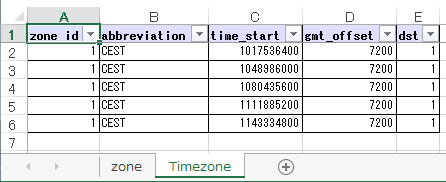
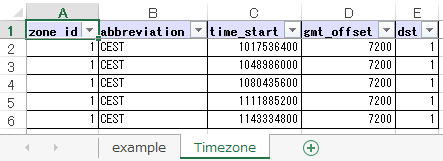
[ci skip] Update docs

Changed region(s): [[0.0, 0.0, 1.0, 1.0], [0.1174, 0.9006, 0.1467, 0.9317], [0.0587, 0.9006, 0.088, 0.9317]]

diff --git a/docs/pages/examples/excel.rst b/docs/pages/examples/excel.rst
@@ -16,19 +16,18 @@ Write multiple Excel tables
     :caption: Sample code
 
     import pytablewriter
-
+    
     writer = pytablewriter.ExcelTableWriter()
-    writer.open_workbook("sample_multi.xlsx")
+    writer.open_workbook("sample.xlsx")
 
     # write the first worksheet
-    writer.make_worksheet("zone")
-    writer.header_list = ["zone_id", "country_code", "zone_name"]
+    writer.make_worksheet("example")
+    writer.header_list = ["int", "float", "str", "bool", "mix", "time"]
     writer.value_matrix = [
-        ["1", "AD", "Europe/Andorra"],
-        ["2", "AE", "Asia/Dubai"],
-        ["3", "AF", "Asia/Kabul"],
-        ["4", "AG", "America/Antigua"],
-        ["5", "AI", "America/Anguilla"],
+        [0,   0.1,      "hoge", True,   0,      "2017-01-01 03:04:05+0900"],
+        [2,   "-2.23",  "foo",  False,  None,   "2017-12-23 12:34:51+0900"],
+        [3,   0,        "bar",  "true",  "inf", "2017-03-03 22:44:55+0900"],
+        [-10, -9.9,     "",     "FALSE", "nan", "2017-01-01 00:00:00+0900"],
     ]
     writer.write_table()
 
